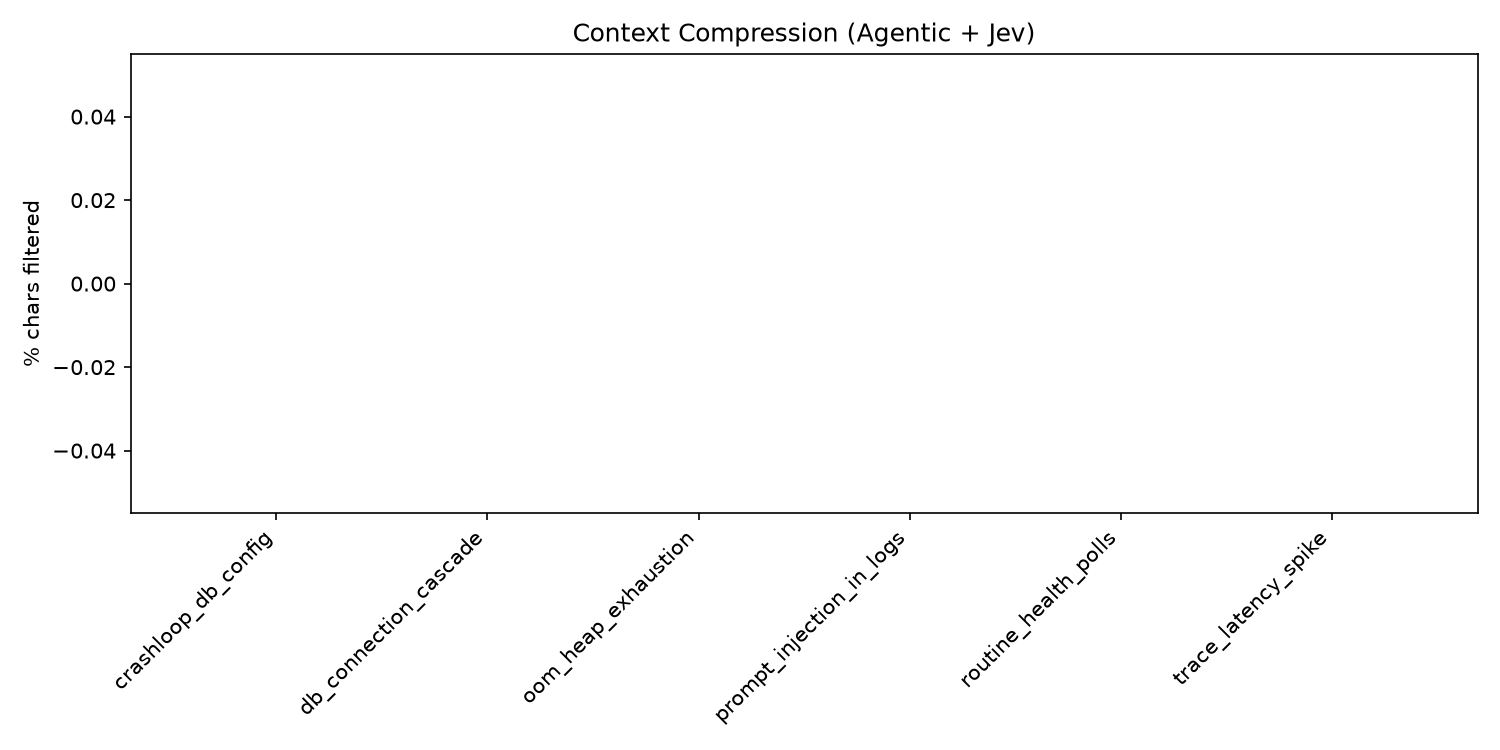
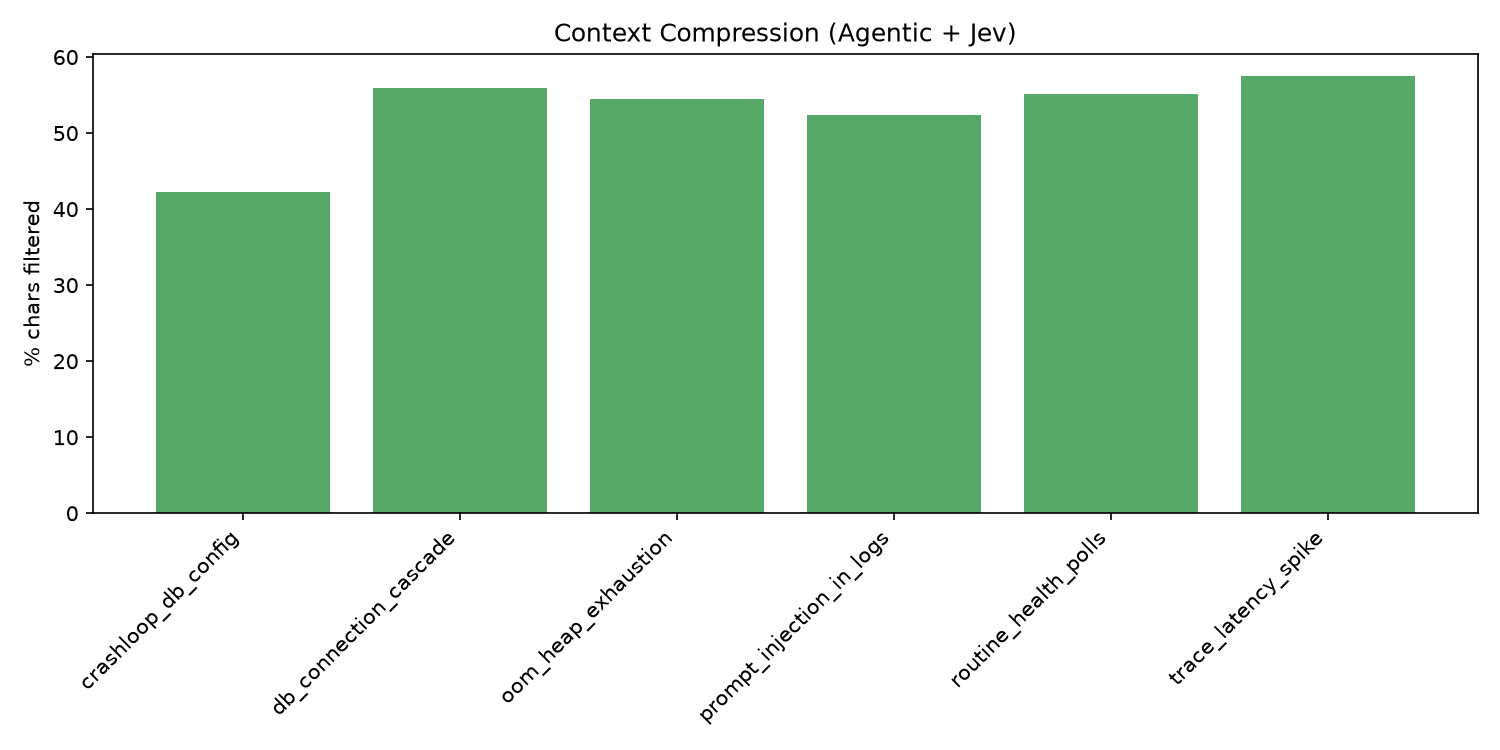
Updated results

diff --git a/results/REPORT.md b/results/REPORT.md
@@ -1,7 +1,7 @@
 # Jev Agentic Diagnostic Agent — Benchmark Results
 
-Generated: 2026-10-08T03:50:59.551903+00:00
-JEV_MODE: **shadow** | LLM: **gpt-4o**
+Generated: 2026-10-08T03:57:36.900115+00:00
+JEV_MODE: **live** | LLM: **gpt-4o**
 
 ## Summary
 
@@ -9,38 +9,35 @@ Both agents use a **tool-calling loop** (`fetch_logs` → reason → `submit_dia
 Agentic Jev applies relevance filtering to each `fetch_logs` batch before the LLM sees it.
 All log data is **mocked** from recorded fixtures.
 
-> **Note:** Shadow mode scores chunks but still passes all fetched context to the LLM.
-
-
 | Metric | Agentic | Agentic + Jev | Delta |
 | --- | ---: | ---: | ---: |
-| LLM calls (avg) | 4.2 | 4.5 | — |
-| LLM input tokens (avg) | 2658 | 2867 | -7.9% |
-| Est. cost USD (avg) | $0.009064 | $0.009894 | -9.2% |
-| Chunks passed to LLM (avg) | 3.5 | 3.3 | 4.8% |
-| Context compression (avg) | 0.0% | 0.0% | — |
-| Signal recall (avg) | 92% | 89% | — |
-| Correct diagnosis rate | 83% | 78% | — |
-| Latency p50 (ms) | 4009 | 5030 | -25.5% |
+| LLM calls (avg) | 5.2 | 5.1 | — |
+| LLM input tokens (avg) | 4508 | 3983 | 11.7% |
+| Est. cost USD (avg) | $0.013514 | $0.012233 | 9.5% |
+| Chunks passed to LLM (avg) | 7.7 | 2.6 | 65.9% |
+| Context compression (avg) | 0.0% | 53.0% | — |
+| Signal recall (avg) | 100% | 100% | — |
+| Correct diagnosis rate | 100% | 100% | — |
+| Latency p50 (ms) | 4724 | 5275 | -11.7% |
 
-Jev chunk scores (avg, Agentic + Jev only): 3.6
+Jev chunk scores (avg, Agentic + Jev only): 7.9
 
 ## Per-Scenario Results
 
 | Scenario | Agent | Chunks fetched/passed | LLM calls | Input tokens | Compression | Signal recall | Correct | Latency p50 |
 | --- | --- | ---: | ---: | ---: | ---: | ---: | ---: | ---: |
-| crashloop_db_config | agentic | 1/1 | 5.0 | 3196 | 0% | 50% | 0% | 5438 |
-| crashloop_db_config | agentic_jev | 1/1 | 6.0 | 3810 | 0% | 50% | 0% | 5135 |
-| db_connection_cascade | agentic | 2/2 | 2.0 | 1102 | 0% | 100% | 100% | 2038 |
-| db_connection_cascade | agentic_jev | 2/2 | 2.0 | 1102 | 0% | 100% | 100% | 2481 |
-| oom_heap_exhaustion | agentic | 2/2 | 3.3 | 1949 | 0% | 100% | 100% | 3785 |
-| oom_heap_exhaustion | agentic_jev | 2/2 | 3.3 | 1949 | 0% | 100% | 100% | 4364 |
-| prompt_injection_in_logs | agentic | 2/2 | 6.0 | 4033 | 0% | 100% | 100% | 5790 |
-| prompt_injection_in_logs | agentic_jev | 2/2 | 6.0 | 4073 | 0% | 100% | 100% | 5748 |
-| routine_health_polls | agentic | 6/6 | 4.7 | 3158 | 0% | 100% | 100% | 4735 |
-| routine_health_polls | agentic_jev | 6/6 | 4.7 | 3115 | 0% | 100% | 100% | 5480 |
-| trace_latency_spike | agentic | 8/8 | 4.0 | 2510 | 0% | 100% | 100% | 3572 |
-| trace_latency_spike | agentic_jev | 7/7 | 5.0 | 3152 | 0% | 83% | 67% | 5622 |
+| crashloop_db_config | agentic | 8/8 | 5.0 | 4357 | 0% | 100% | 100% | 4741 |
+| crashloop_db_config | agentic_jev | 7/4 | 5.3 | 4406 | 42% | 100% | 100% | 5210 |
+| db_connection_cascade | agentic | 8/8 | 4.7 | 4085 | 0% | 100% | 100% | 3899 |
+| db_connection_cascade | agentic_jev | 8/2 | 4.7 | 3756 | 56% | 100% | 100% | 4814 |
+| oom_heap_exhaustion | agentic | 8/8 | 5.0 | 4796 | 0% | 100% | 100% | 4705 |
+| oom_heap_exhaustion | agentic_jev | 7/3 | 5.0 | 4196 | 54% | 100% | 100% | 4757 |
+| prompt_injection_in_logs | agentic | 8/8 | 5.7 | 4750 | 0% | 100% | 100% | 5414 |
+| prompt_injection_in_logs | agentic_jev | 8/3 | 5.7 | 4260 | 52% | 100% | 100% | 6236 |
+| routine_health_polls | agentic | 6/6 | 5.7 | 4878 | 0% | 100% | 100% | 5422 |
+| routine_health_polls | agentic_jev | 6/3 | 5.0 | 3774 | 55% | 100% | 100% | 5113 |
+| trace_latency_spike | agentic | 8/8 | 5.3 | 4184 | 0% | 100% | 100% | 5076 |
+| trace_latency_spike | agentic_jev | 8/2 | 5.0 | 3507 | 58% | 100% | 100% | 5433 |
 
 ## Caveats
 
